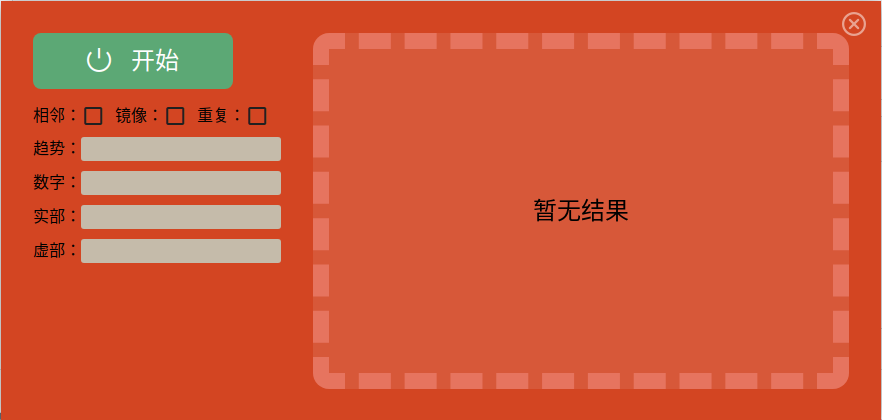
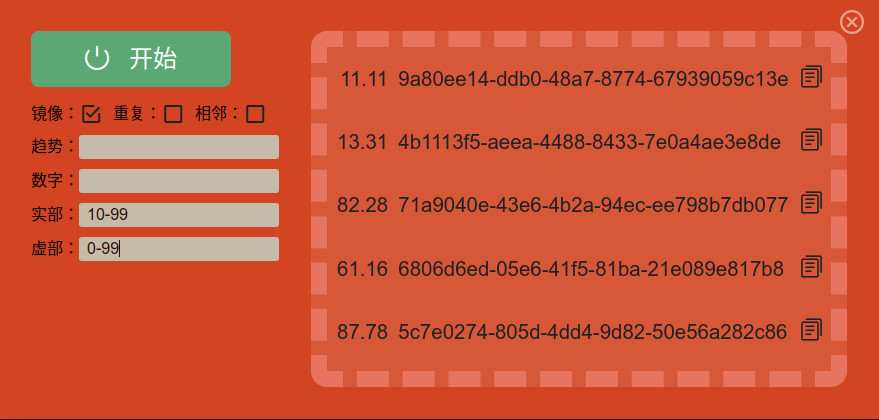
app.png

diff --git a/src/App.js b/src/App.js
@@ -113,17 +113,17 @@ function Layout ({ children }) {
             <span>{buttonText}</span>
           </button>
           <div className='split' />
-          <label>相邻：</label>
+          <label>镜像：</label>
           <label className='checkbox'>
             <input type='checkbox' checked={isMirror} onChange={ChangeIsMirror} />
             <i className='iconfont' />
           </label>
-          <label>镜像：</label>
+          <label>重复：</label>
           <label className='checkbox'>
             <input type='checkbox' checked={isRepeate} onChange={ChangeIsRepeate} />
             <i className='iconfont' />
           </label>
-          <label>重复：</label>
+          <label>相邻：</label>
           <label className='checkbox'>
             <input type='checkbox' checked={isNeighbor} onChange={ChangeIsNeightbor} />
             <i className='iconfont' />

diff --git a/public/styles.css b/public/styles.css
@@ -113,7 +113,7 @@ ul > li:before {
 }
 
 ul > li > span {
-  font-size: 1.36em;
+  font-size: 1.28em;
   color: #212020;
   display:table-cell;
   padding-left: 10px;
